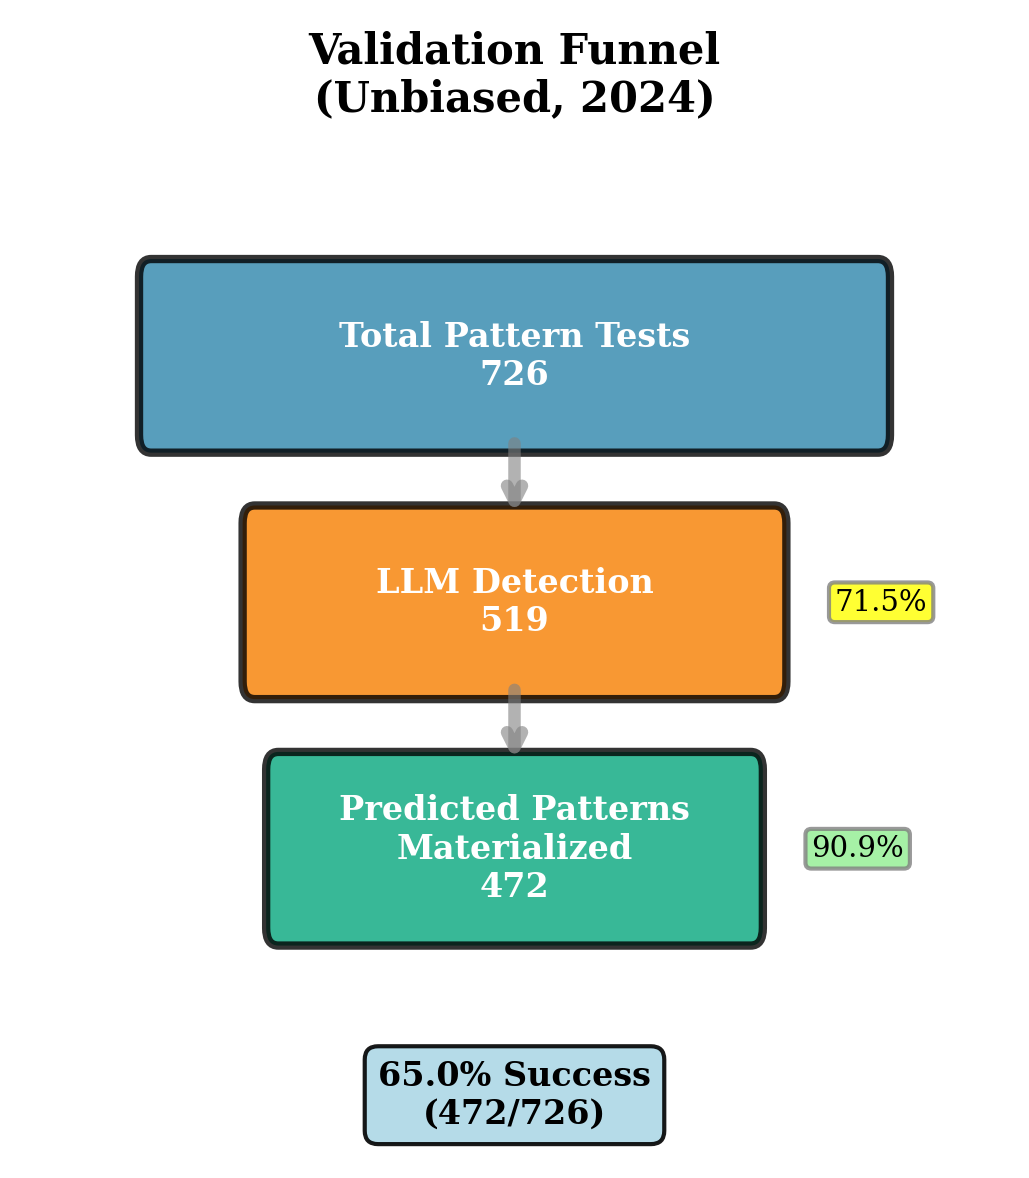
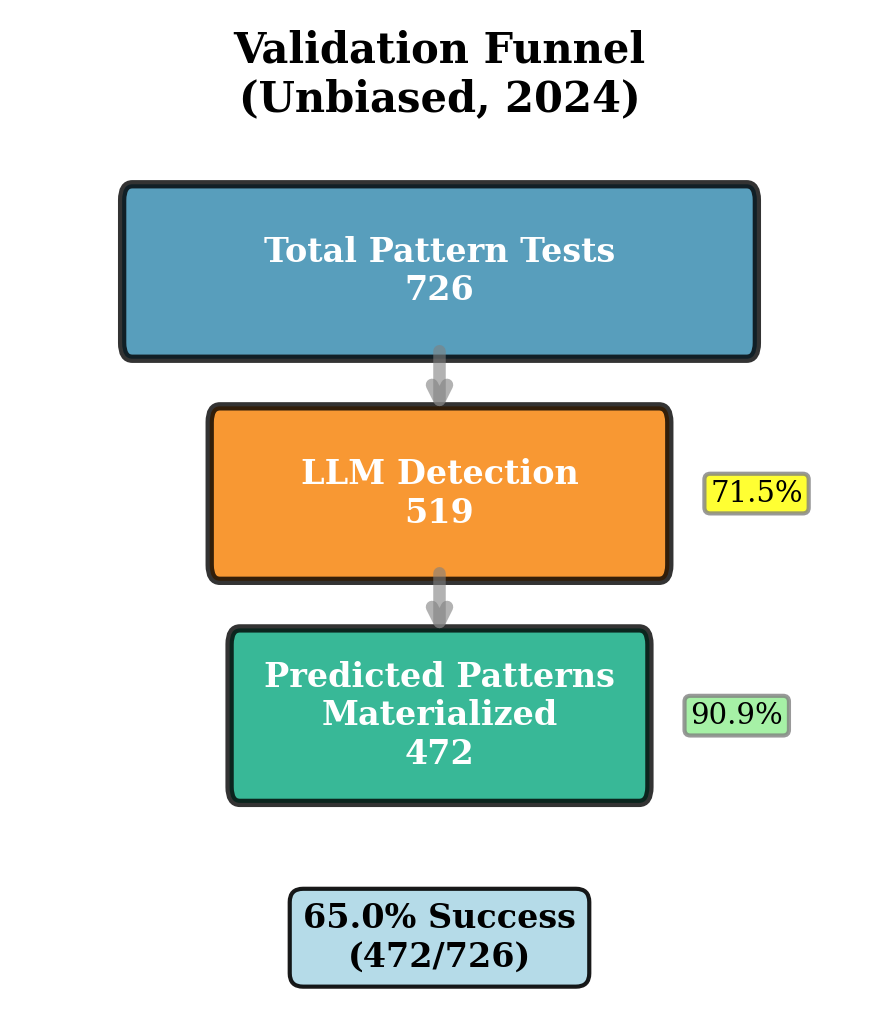
figure reduction

diff --git a/docs/papers/paper1/figures/scripts/fig6_validation_funnel.py b/docs/papers/paper1/figures/scripts/fig6_validation_funnel.py
@@ -115,7 +115,7 @@ for i, p in enumerate(patterns_full):
 # VERSION 1: Traditional Funnel Diagram (IEEE SINGLE-COLUMN SIZE)
 # ============================================================================
 
-fig, ax = plt.subplots(figsize=(3.5, 4))  # IEEE single-column width
+fig, ax = plt.subplots(figsize=(3, 3.5))  # IEEE single-column width
 
 # Funnel data
 stages = ['Total Pattern Tests', 'LLM Detection',
@@ -177,7 +177,7 @@ ax.text(0, 0.2, success_text,
 
 # Configure axes (tight for single-column)
 ax.set_xlim(-2, 2)  # Narrow for single-column
-ax.set_ylim(0.05, 2.9)
+ax.set_ylim(0.01, 2.7)
 ax.axis('off')
 
 # Title (compact for single-column)
